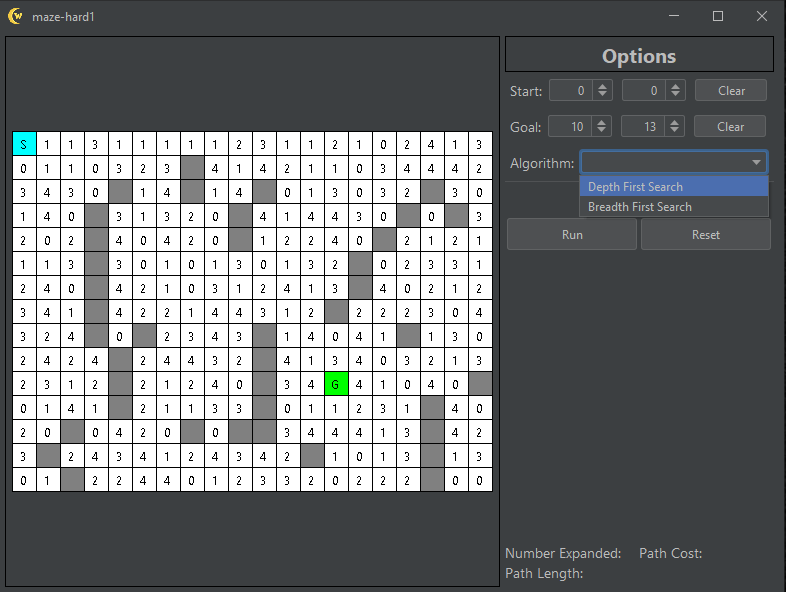
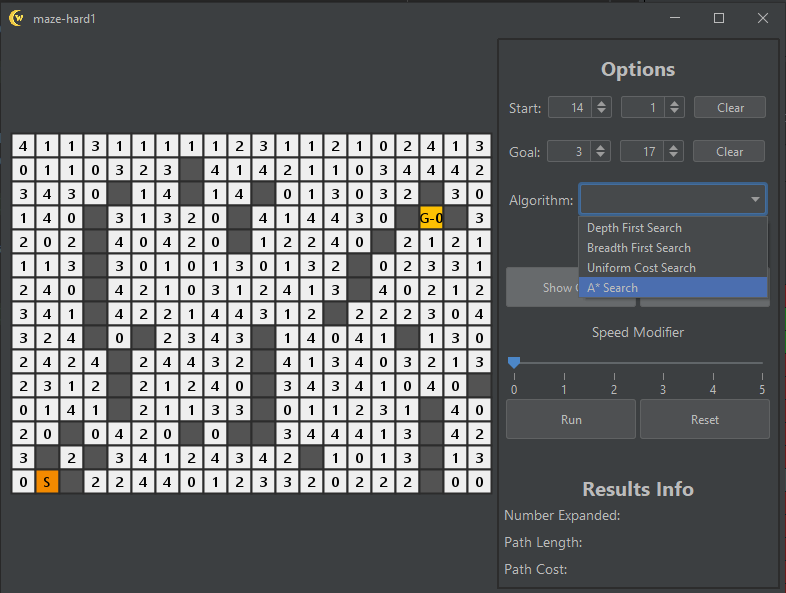
Updated README.md

diff --git a/src/ui/MazeWindow.java b/src/ui/MazeWindow.java
@@ -20,11 +20,11 @@ public class MazeWindow extends JFrame {
     public static final Color COLOR_TILE_BOX = new Color(44, 44, 44);
     public static final Color COLOR_WALL = new Color(83, 83, 83);
     public static final Color COLOR_OPEN = new Color(239, 239, 239);
-    public static final Color COLOR_START = new Color(95, 255, 0);
-    public static final Color COLOR_GOAL = new Color(20, 122, 252);
-    public static final Color COLOR_PATH = new Color(153,249,146);
+    public static final Color COLOR_START = new Color(243, 138, 0);
+    public static final Color COLOR_GOAL = new Color(252, 192, 3);
+    public static final Color COLOR_PATH = new Color(14, 252, 0);
     public static final Color COLOR_EXPANDED = new Color(133,16,0);
-    public static final Color COLOR_ARROW = new Color(10, 63, 229);
+    public static final Color COLOR_ARROW = new Color(0, 0, 0);
     public static final Color COLOR_TEXT = Color.BLACK;
 
     // Load Icon
@@ -623,8 +623,7 @@ public class MazeWindow extends JFrame {
                 case Node.NORTH -> g2.fillPolygon(
                         new int[]{x + size/4, x + size/2, x + 3*(size/4)},
                         new int[]{y + size/4, y, y + size/4},
-                        3
-                );
+                        3);
                 case Node.SOUTH -> g2.fillPolygon(
                         new int[]{x + size/4, x + size/2, x + 3*(size/4)},
                         new int[]{y + 3*(size/4), y + size, y + 3*(size/4)},

diff --git a/README.md b/README.md
@@ -1,15 +1,14 @@
 # Pathfinder
 
-### Description
 * An Interactive Application to visualize different pathfinding algorithms
 
 * Current Algorithms:
   * Depth First Search
   * Breadth First Search
-  
-* To Be Added (Not an Exhaustive List):
   * Uniform Cost Search
   * A* Search
+  
+* More Algorithms to be added in the future
   
 
 ### New GUI for Pathfinder
@@ -24,6 +23,7 @@
 ![Alt text](./resources/readme/maze-hard1-pre.png?raw=true "BFS Path")
 
 * The final result will display the expansion of nodes to easily visualize how the algorithm progresses
-  * Variable Speed of Display to be added
+  * Includes variable speed display for node expansion
+  * Cost and Path Direction is Toggleable 
 
 ![Alt text](./resources/readme/maze-hard1-run.png?raw=true "BFS Path")
